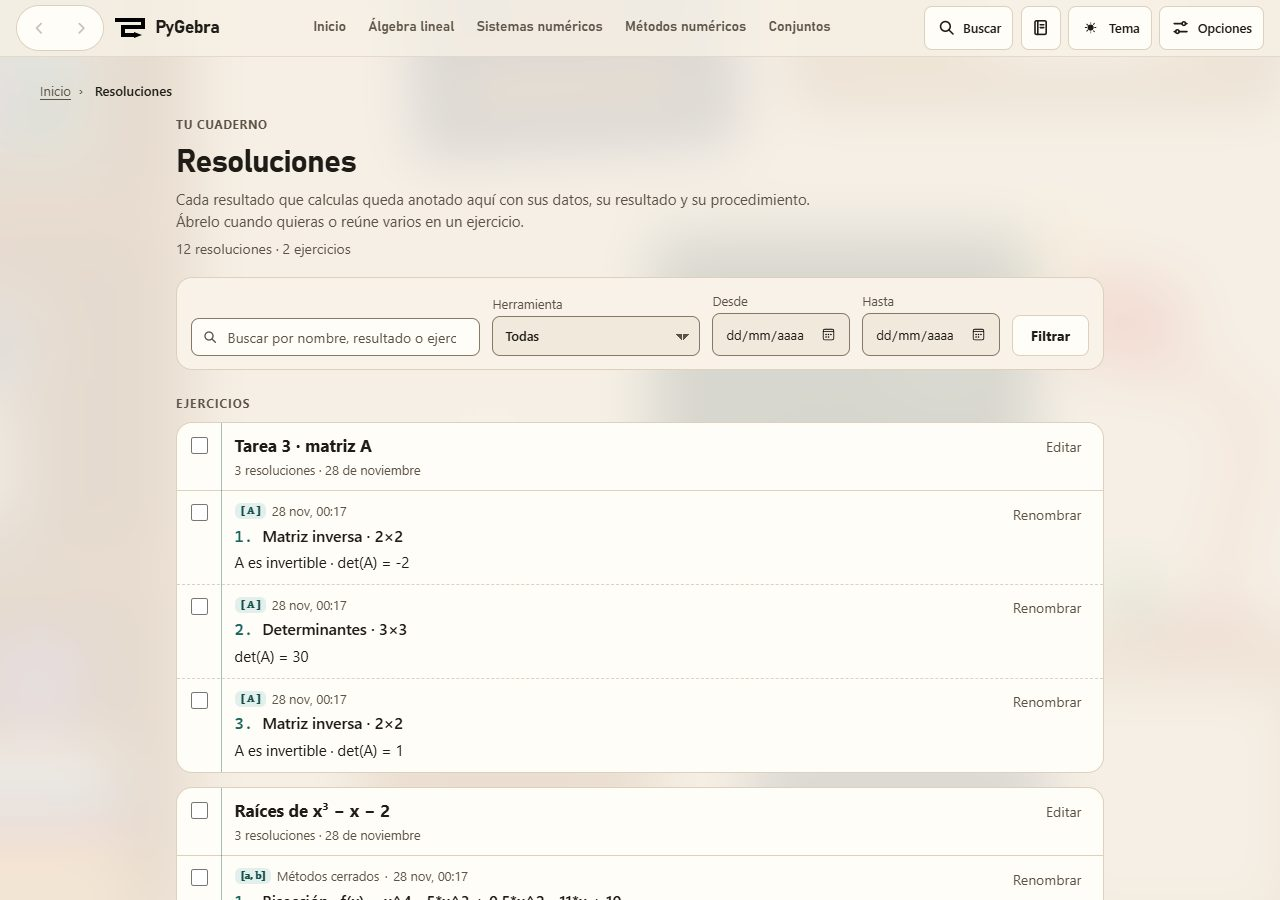
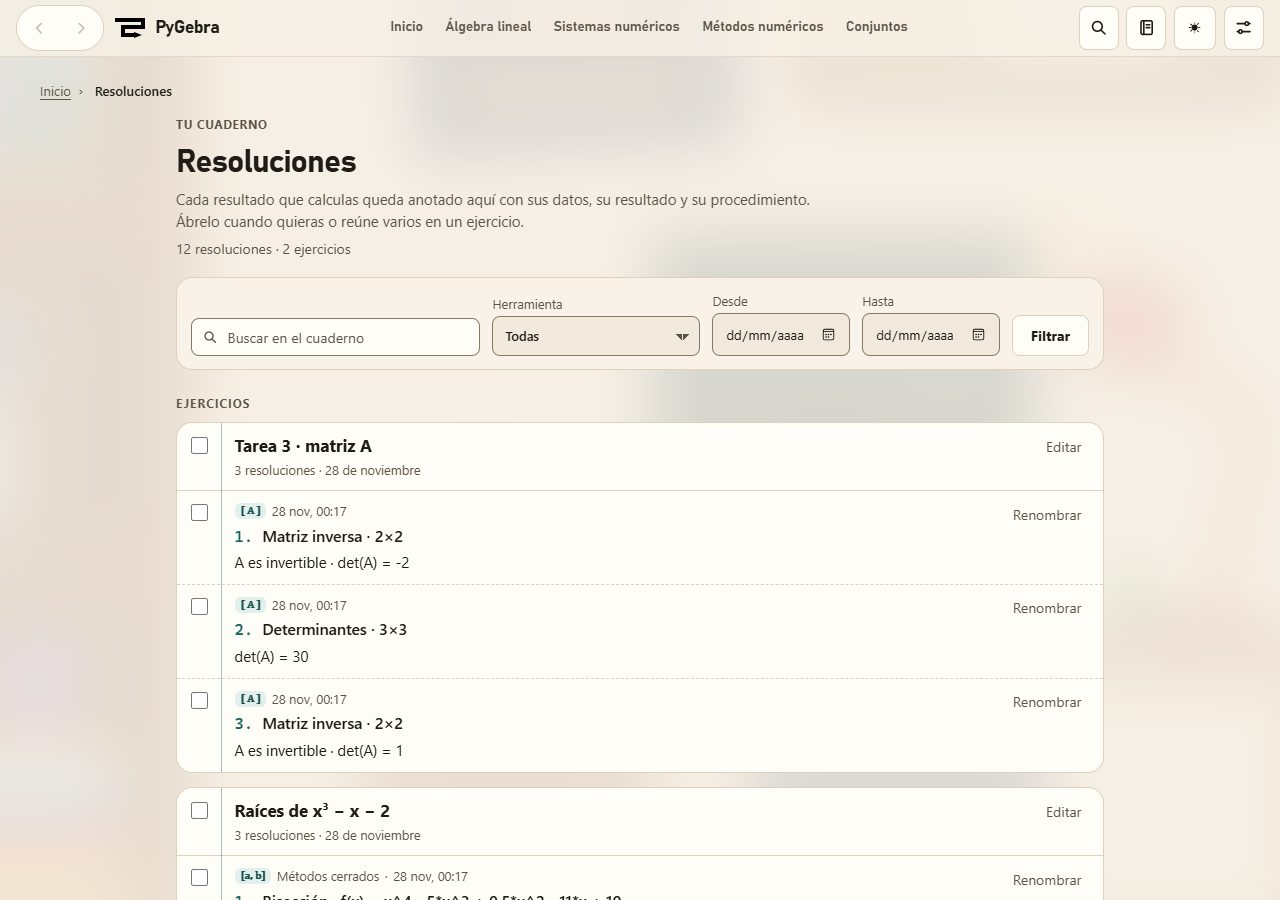
fix: evitar que la cabecera tape las areas con fuentes anchas
El runner de CI (Linux, sin Segoe UI) mostro que a 1280 px el nuevo boton dejaba Conjuntos bajo las acciones en cuatro estilos; en ChocoLab y HeyAlgb ya ocurria antes con fuentes anchas, y hasta 640 px la marca quedaba tapada. Mientras las areas estan en la cabecera con poco espacio, y hasta 640 px, los botones quedan en icono como ya hacia HeyAlgb, cuyas pestanas se compactan en ese tramo. El runner comprueba la cabecera de 481 a 1600 px en los cinco estilos.

diff --git a/tests/resoluciones_browser.js b/tests/resoluciones_browser.js
@@ -124,6 +124,17 @@
         }],
     ];
 
+    // Ni las áreas ni la marca quedan debajo de los botones de la cabecera.
+    const cabeceraSinSolapes = (w, contexto = "") => {
+        const acciones = q(w, ".header-actions").getBoundingClientRect();
+        const inicio = q(w, ".header-start").getBoundingClientRect();
+        cierto(inicio.right <= acciones.left + 1, `${contexto} la marca queda bajo las acciones`);
+        for (const enlace of todos(w, ".nav-areas a").filter(a => a.getClientRects().length)) {
+            cierto(enlace.getBoundingClientRect().right <= acciones.left + 1,
+                `${contexto} «${enlace.textContent.trim()}» queda bajo las acciones`);
+        }
+    };
+
     // Coherencia en los cinco estilos y los dos temas: la cabecera no se solapa y el cuaderno no se desborda.
     for (const estilo of ["estudio", "minimalista", "chocolab", "belugacalc", "heyalgb"]) {
         for (const tema of ["light", "dark"]) {
@@ -131,11 +142,7 @@
                 await calcularInversa(frame, [[2, 0], [0, 2]]);
                 w = frame.contentWindow;
                 igual(w.document.documentElement.dataset.estilo, estilo);
-                const acciones = q(w, ".header-actions").getBoundingClientRect();
-                const areas = todos(w, ".nav-areas a").filter(a => a.getClientRects().length);
-                for (const enlace of areas) {
-                    cierto(enlace.getBoundingClientRect().right <= acciones.left + 1, `«${enlace.textContent.trim()}» queda bajo las acciones`);
-                }
+                cabeceraSinSolapes(w);
                 const aviso = q(w, "#resolucion-aviso");
                 cierto(getComputedStyle(aviso).color !== getComputedStyle(aviso).backgroundColor, "texto del aviso visible");
                 w = await abrir(frame, "/resoluciones/");
@@ -144,6 +151,16 @@
             }]);
         }
     }
+    casos.push(["Cabecera sin solapes de 481 a 1600 px en los cinco estilos", {}, async (w, frame) => {
+        for (const ancho of [481, 600, 768, 1180, 1240, 1366, 1440, 1600]) {
+            for (const estilo of ["estudio", "minimalista", "chocolab", "belugacalc", "heyalgb"]) {
+                localStorage.setItem("pygebra-estilo", estilo);
+                frame.style.width = `${ancho}px`;
+                w = await abrir(frame, "/matrices/inversa/");
+                cabeceraSinSolapes(w, `${estilo} a ${ancho} px:`);
+            }
+        }
+    }]);
     casos.push(["Móvil (390 px): filtros, hoja y barra caben sin desbordar", {ancho: 390}, async (w, frame) => {
         await calcularInversa(frame, [[1, 3], [2, 7]]);
         w = await abrir(frame, "/resoluciones/");

diff --git a/frontend/web/calculadora/static/calculadora/styles/resoluciones.css b/frontend/web/calculadora/static/calculadora/styles/resoluciones.css
@@ -2,20 +2,50 @@
    lo dibujan con sus colores, radios y tipografías. La «personalidad» de cuaderno es contenida:
    una línea de margen, pasos numerados y renglones discontinuos; nada que compita con la matemática. */
 
-/* —— Enlace de la cabecera ——
-   Usa las clases de Buscar. Con la navegación por áreas visible no cabe un botón más con texto:
-   hasta 1440 px se queda en el icono; el texto sigue ahí para los lectores de pantalla. */
-@media (max-width: 1439px) {
+/* —— Cabecera ——
+   Resoluciones usa las clases de Buscar y hasta 1600 px se queda en su icono. Donde el espacio
+   es justo, los demás botones también, como ya hacía HeyAlgb: en pantallas estrechas tapaban la
+   marca y, con la navegación por áreas a la vista y fuentes más anchas (Linux, zoom), las áreas
+   quedaban debajo de ellos. El nombre sigue para lectores de pantalla y en el title. */
+@media (max-width: 1599px) {
     .header-resoluciones .header-buscar-text {
         position: absolute;
         width: 1px;
         height: 1px;
         overflow: hidden;
-        clip: rect(0, 0, 0, 0);
+        clip-path: inset(50%);
         white-space: nowrap;
     }
 
     .header-resoluciones { padding-inline: 0.6rem; }
+}
+
+@media (max-width: 640px) {
+    .app-header :is(.header-buscar-text, .theme-toggle-text, .options-toggle-text) {
+        position: absolute;
+        width: 1px;
+        height: 1px;
+        overflow: hidden;
+        clip-path: inset(50%);
+        white-space: nowrap;
+    }
+
+    .app-header :is(.header-buscar, .theme-toggle, .options-toggle) { padding-inline: 0.6rem; }
+}
+
+/* Áreas en la cabecera: ChocoLab desde 1180 px, HeyAlgb desde 1200 y Estudio y Minimalista desde
+   1240. BelugaCalc las lleva en su riel lateral y conserva los nombres. */
+@media (min-width: 1180px) and (max-width: 1439px) {
+    html:not([data-estilo="belugacalc"]) :is(.header-buscar-text, .theme-toggle-text, .options-toggle-text) {
+        position: absolute;
+        width: 1px;
+        height: 1px;
+        overflow: hidden;
+        clip-path: inset(50%);
+        white-space: nowrap;
+    }
+
+    html:not([data-estilo="belugacalc"]) :is(.header-buscar, .theme-toggle, .options-toggle) { padding-inline: 0.6rem; }
 }
 
 /* —— Aviso en una herramienta —— */

diff --git a/frontend/web/calculadora/static/calculadora/styles/homenaje-heyalgb.css b/frontend/web/calculadora/static/calculadora/styles/homenaje-heyalgb.css
@@ -184,6 +184,20 @@
     }
 }
 
+/* Hasta 1440 px las pestañas se compactan: junto a los botones (con Resoluciones) no cabían
+   con fuentes más anchas que la de Windows y quedaban debajo de ellos. */
+@media (min-width: 1200px) and (max-width: 1439px) {
+    [data-estilo="heyalgb"] .nav-areas ul {
+        gap: 0.1rem;
+    }
+
+    [data-estilo="heyalgb"] .areas-enlace {
+        padding-inline: 0.55rem;
+        font-size: 0.82rem;
+        letter-spacing: 0.03em;
+    }
+}
+
 /* —— Inicio: un cartel. Cortes diagonales a sangre, titular enorme y el sello del equipo —— */
 
 [data-estilo="heyalgb"] .home-hero {

diff --git a/docs/resoluciones.md b/docs/resoluciones.md
@@ -26,6 +26,12 @@ procedimiento originales, sin volver a calcular.
   una resolución nueva; la original no se sobrescribe.
 - Todo funciona sin JavaScript; `resoluciones.js` añade el recuento, marcar un grupo
   y la barra flotante.
+- **Cabecera.** Resoluciones usa las clases de Buscar y muestra su nombre desde 1600 px.
+  Hasta 640 px y mientras las áreas están en la cabecera con poco espacio (1180–1439 px;
+  BelugaCalc las lleva en su riel), Buscar, Tema y Opciones también quedan en icono, como
+  ya hacía HeyAlgb, cuyas pestañas se compactan en ese tramo. Con fuentes más anchas que
+  Segoe UI (Linux, zoom) las áreas o la marca quedaban debajo de los botones; el runner
+  `resoluciones` lo comprueba de 481 a 1600 px en los cinco estilos.
 
 ## Dónde se guarda
 
